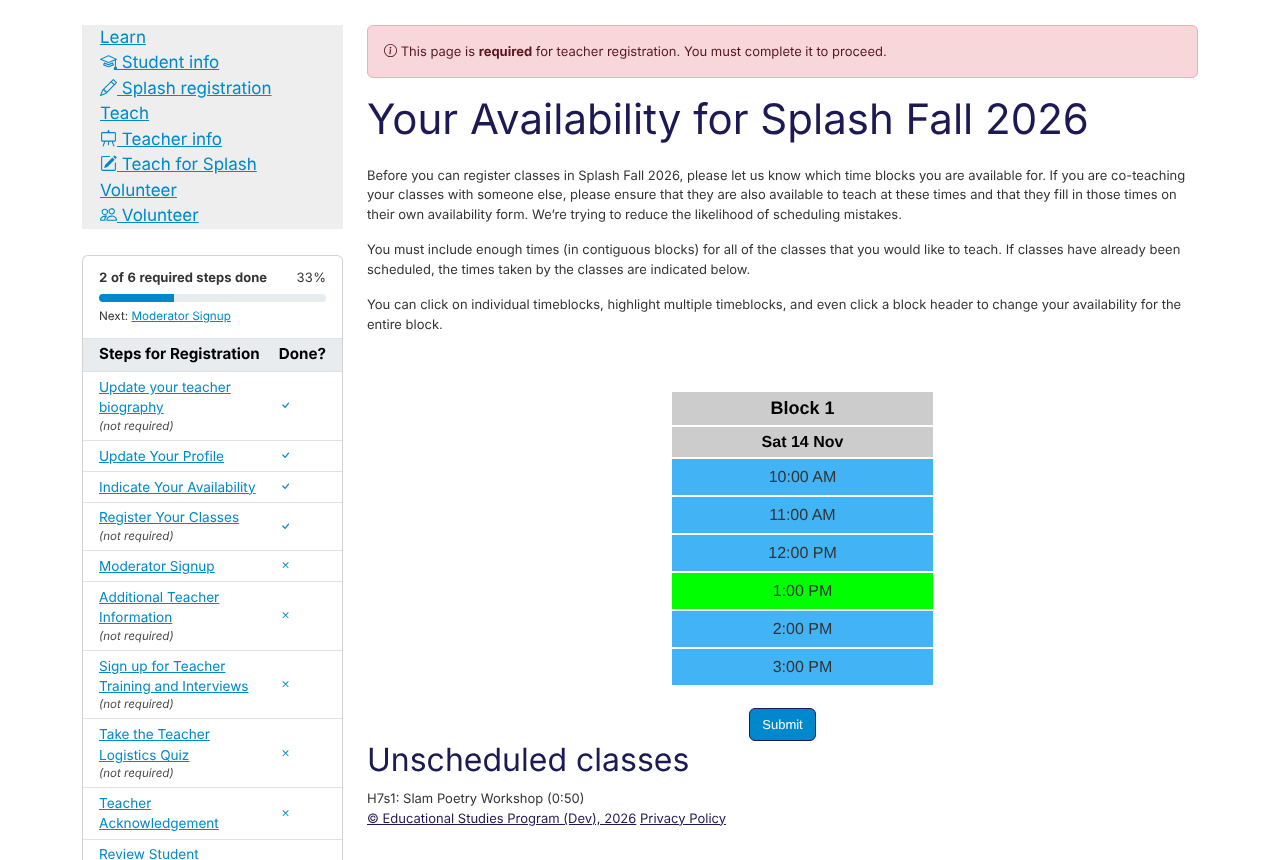
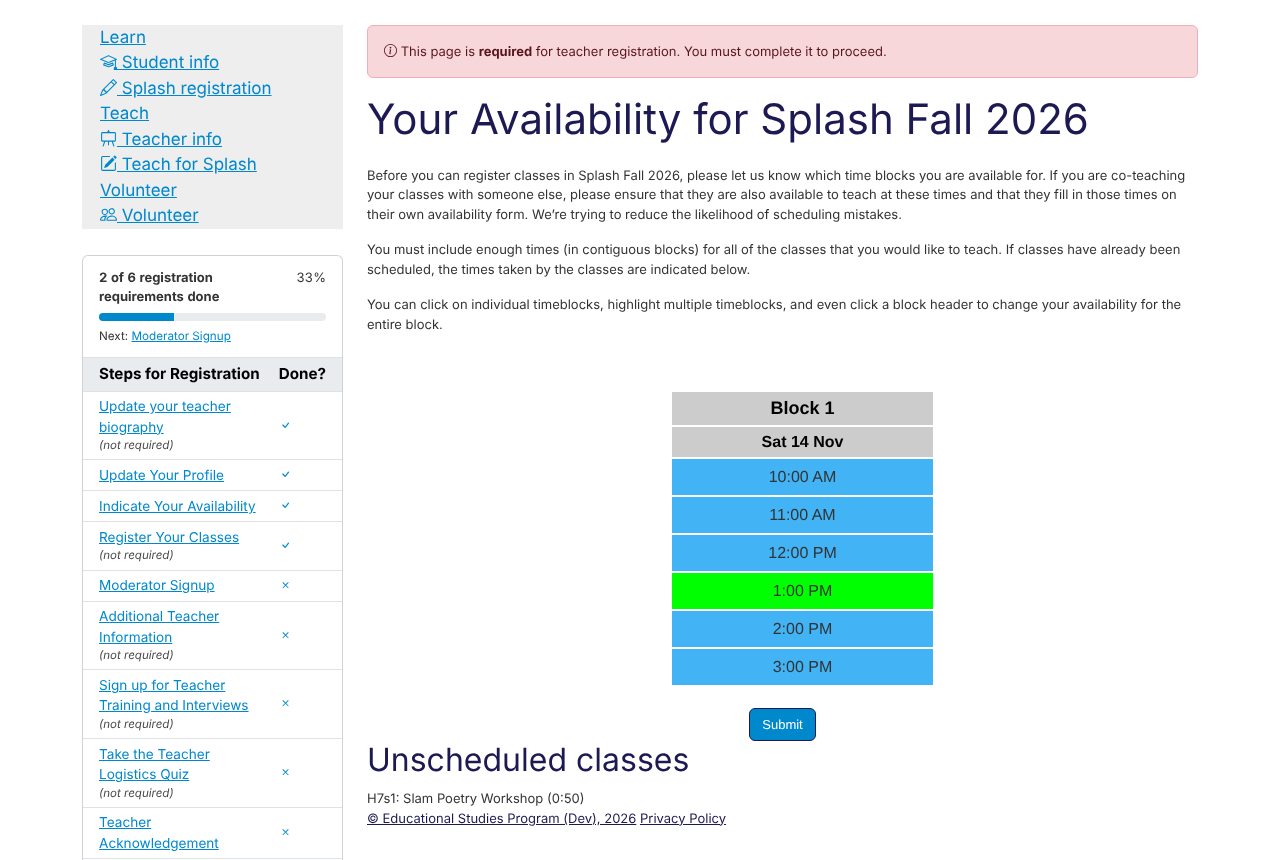
Describe the checklist progress as registration requirements
The count covers required steps and other registration requirements, so
"required steps" undersold it. Retake the release note screenshots.

Claude-Session: https://claude.ai/code/session_0125DJeUvSqDpfccYdjsHZuy

Changed region(s): [[0.0625, 0.3023, 0.2812, 1.0], [0.2188, 0.6349, 0.25, 0.6651]]

diff --git a/esp/templates/program/modules/teacherregcore/checklist_sidebar.html b/esp/templates/program/modules/teacherregcore/checklist_sidebar.html
@@ -15,10 +15,10 @@ teacherreg-layout.css keeps it open (and hides the toggle) everywhere else.
     {% if progress.total %}
     <div class="teacher-reg-progress">
       <div class="teacher-reg-progress-label">
-        <strong>{{ progress.done }} of {{ progress.total }} required steps done</strong>
+        <strong>{{ progress.done }} of {{ progress.total }} registration requirements done</strong>
         <span>{{ progress.percent }}%</span>
       </div>
-      <div class="progress" role="progressbar" aria-label="Required registration steps done" aria-valuemin="0" aria-valuemax="{{ progress.total }}" aria-valuenow="{{ progress.done }}">
+      <div class="progress" role="progressbar" aria-label="Registration requirements done" aria-valuemin="0" aria-valuemax="{{ progress.total }}" aria-valuenow="{{ progress.done }}">
         <div class="progress-bar" style="width: {{ progress.percent }}%"></div>
       </div>
       <p class="teacher-reg-next">
@@ -36,7 +36,7 @@ teacherreg-layout.css keeps it open (and hides the toggle) everywhere else.
         {% elif progress.next_record %}
         Next: {{ progress.next_record.full_event }}
         {% else %}
-        All required steps are done.
+        All registration requirements are done.
         {% endif %}
       </p>
     </div>

diff --git a/esp/esp/program/modules/tests/module_progress.py b/esp/esp/program/modules/tests/module_progress.py
@@ -313,7 +313,7 @@ class TeacherChecklistLayoutIntegrationTest(ProgramFrameworkTest):
             response = self.client.get('/teach/%s/%s' % (self.program.url, view))
             self.assertEqual(response.status_code, 200)
             self.assertContains(response, self.SIDEBAR_MARKER)
-            self.assertContains(response, 'required steps done')
+            self.assertContains(response, 'registration requirements done')
             self.assertContains(response, 'id="teacher-reg-checklist-steps"')
 
     def test_class_registration_form_has_no_checklist(self):
